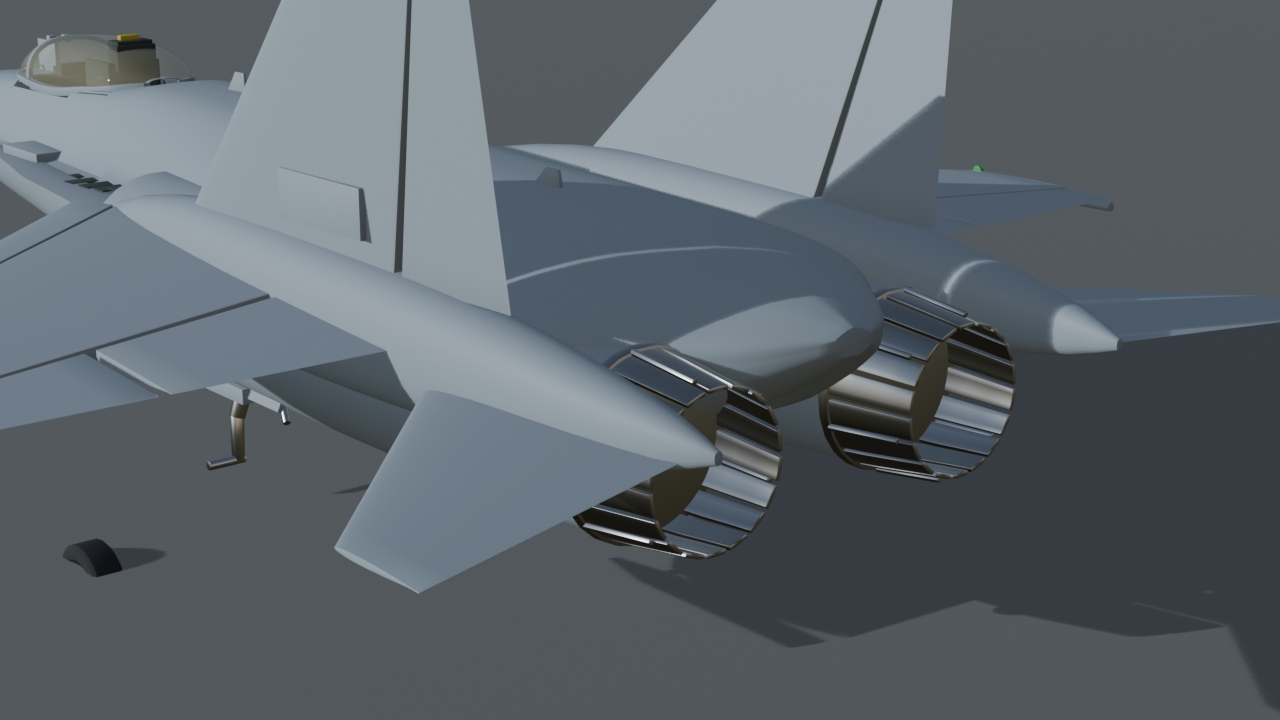
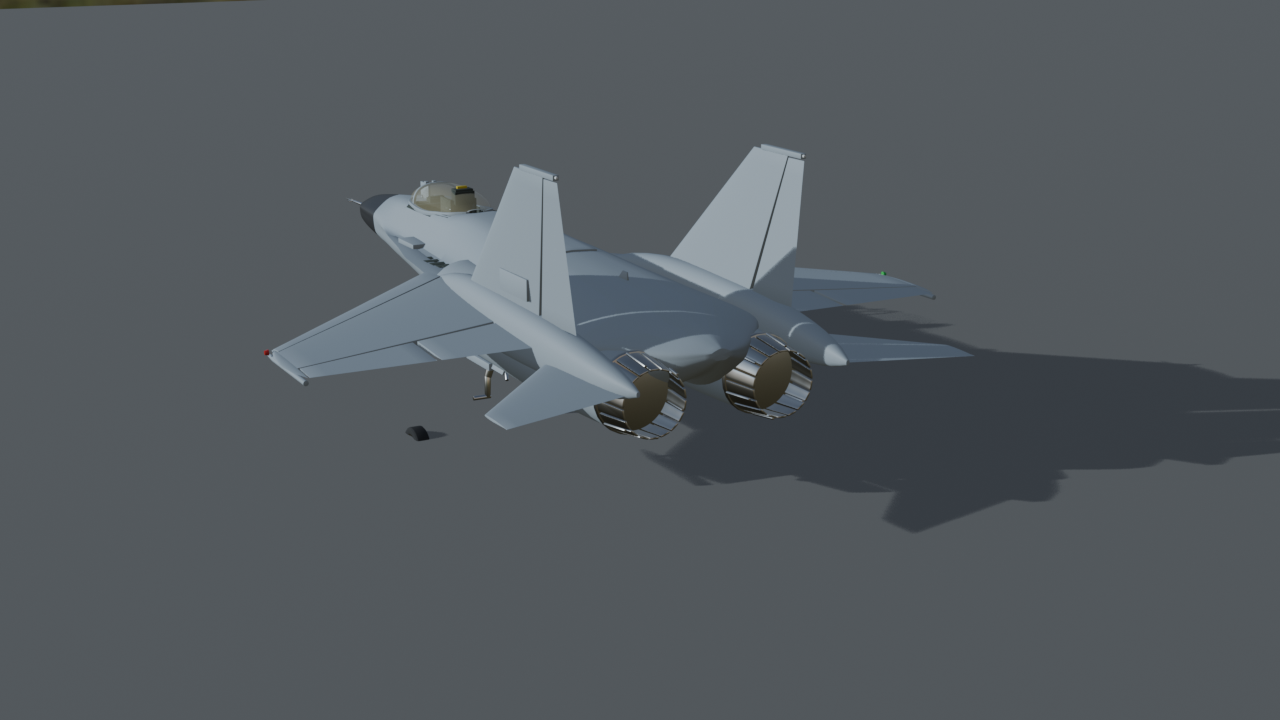
Taux de roulis et autorité en tangage du MiG calés sur des valeurs réelles

diff --git a/src/aircraft/AircraftConfig.ts b/src/aircraft/AircraftConfig.ts
@@ -156,8 +156,13 @@ export const MIG29: AircraftConfig = {
   cd0: 0.021, cdFlaps: 0.05, oswald: 0.72,
   machDragOnset: 0.86, machDragRise: 0.055,
 
-  cmAlpha: -0.62, cmElevator: 1.05, cmQ: -19,
-  clAileron: 0.20, clP: -0.42, clBeta: -0.055,
+  // Steady roll rate is Cl_da / -Cl_p * 2V/b: 0.048 / 0.44 at 230 m/s gives about
+  // 250 deg/s, which is what a Fulcrum does. The same ratio on the Cessna would be
+  // gentle — flying four times faster is most of why the jet feels so much sharper.
+  // Elevator power is set so that full aft stick trims to roughly 34 degrees of alpha
+  // rather than a physically meaningless number that only the protections hold back.
+  cmAlpha: -0.62, cmElevator: 0.34, cmQ: -19,
+  clAileron: 0.048, clP: -0.44, clBeta: -0.055,
   cnRudder: 0.085, cnR: -0.14, cnBeta: 0.16, cnAileron: -0.010,
   slipstreamYaw: 0, controlRate: 6.5, stability: 0.30, gLimit: 9.0,
 

diff --git a/src/aircraft/FlightModel.ts b/src/aircraft/FlightModel.ts
@@ -123,8 +123,10 @@ export class FlightModel {
   }
 
   resetOnRunway(x: number, z: number, y: number, headingRad: number) {
+    // Set the wheels slightly compressed rather than hovering: starting in the air means
+    // the first frames report airborne, which trips anything watching for a touchdown.
     const groundClearance = -this.wheels.reduce((m, w) => Math.min(m, w.local.y), 0);
-    this.position.set(x, y + groundClearance + 0.04, z);
+    this.position.set(x, y + groundClearance - 0.02, z);
     this.quaternion.setFromAxisAngle(new THREE.Vector3(0, 1, 0), headingRad);
     this.velocity.set(0, 0, 0);
     this.omega.set(0, 0, 0);

diff --git a/blender/mig/render.py b/blender/mig/render.py
@@ -89,23 +89,21 @@ def shot(name, pos, target, lens=50, hide=()):
 
 which = sys.argv[sys.argv.index('--') + 1:] if '--' in sys.argv else []
 ALL = {
-    'front34': ((11.0, -13.0, 4.6), (0.2, 0.4, -0.35), 55),
-    'side':    ((0.6, 0.0, 0.0), (0.6, 0.0, 0.0), 55),
-    'rear34':  ((8.5, 13.5, 3.4), (-0.4, 3.0, -0.55), 55),
-    'top':     ((0.0, 0.6, 26.0), (0.0, 0.6, -0.4), 55),
-    'front':   ((0.0, -22.0, 0.6), (0.0, 0.0, 0.0), 70),
-    'low34':   ((9.0, -10.0, -1.2), (0.0, 0.5, -0.5), 50),
-    'pilot':   ((0.0, 0.0, 0.0), (0.0, 0.0, 0.0), 22),
-    'tail':    ((2.6, 11.5, 1.2), (0.6, 4.5, 0.1), 40),
-    'nose':    ((3.2, -8.0, 1.4), (0.0, -3.5, -0.1), 55),
+    'front34': ((14.0, -26.0, 8.0), (0.0, 0.5, -0.40), 50),
+    'side':    ((42.0, 0.6, 1.0), (0.0, 0.6, -0.40), 55),
+    'rear34':  ((13.0, 27.0, 7.0), (0.0, 3.0, -0.50), 50),
+    'top':     ((0.0, 0.6, 38.0), (0.0, 0.6, -0.40), 55),
+    'front':   ((0.0, -40.0, 3.0), (0.0, 0.0, -0.40), 70),
+    'low34':   ((16.0, -22.0, -1.0), (0.0, 0.5, -0.60), 50),
+    'tail':    ((4.5, 17.0, 1.2), (0.6, 5.0, -0.30), 50),
+    'nose':    ((5.5, -13.0, 2.2), (0.0, -4.5, -0.20), 55),
+    'cockpit': ((1.6, -8.0, 2.6), (0.0, -4.6, 0.55), 60),
 }
 if not which:
     which = list(ALL.keys())
 
 for k in which:
-    if k == 'side':
-        shot('side', (16.0, 0.6, 0.0), (0.0, 0.6, 0.0), 120)
-    elif k == 'pilot':
+    if k == 'pilot':
         e = bpy.data.objects['Camera_Pilot']
         p = e.matrix_world.translation
         look((p.x, p.y, p.z), (p.x, p.y - 6.0, p.z - 0.62), 20)
